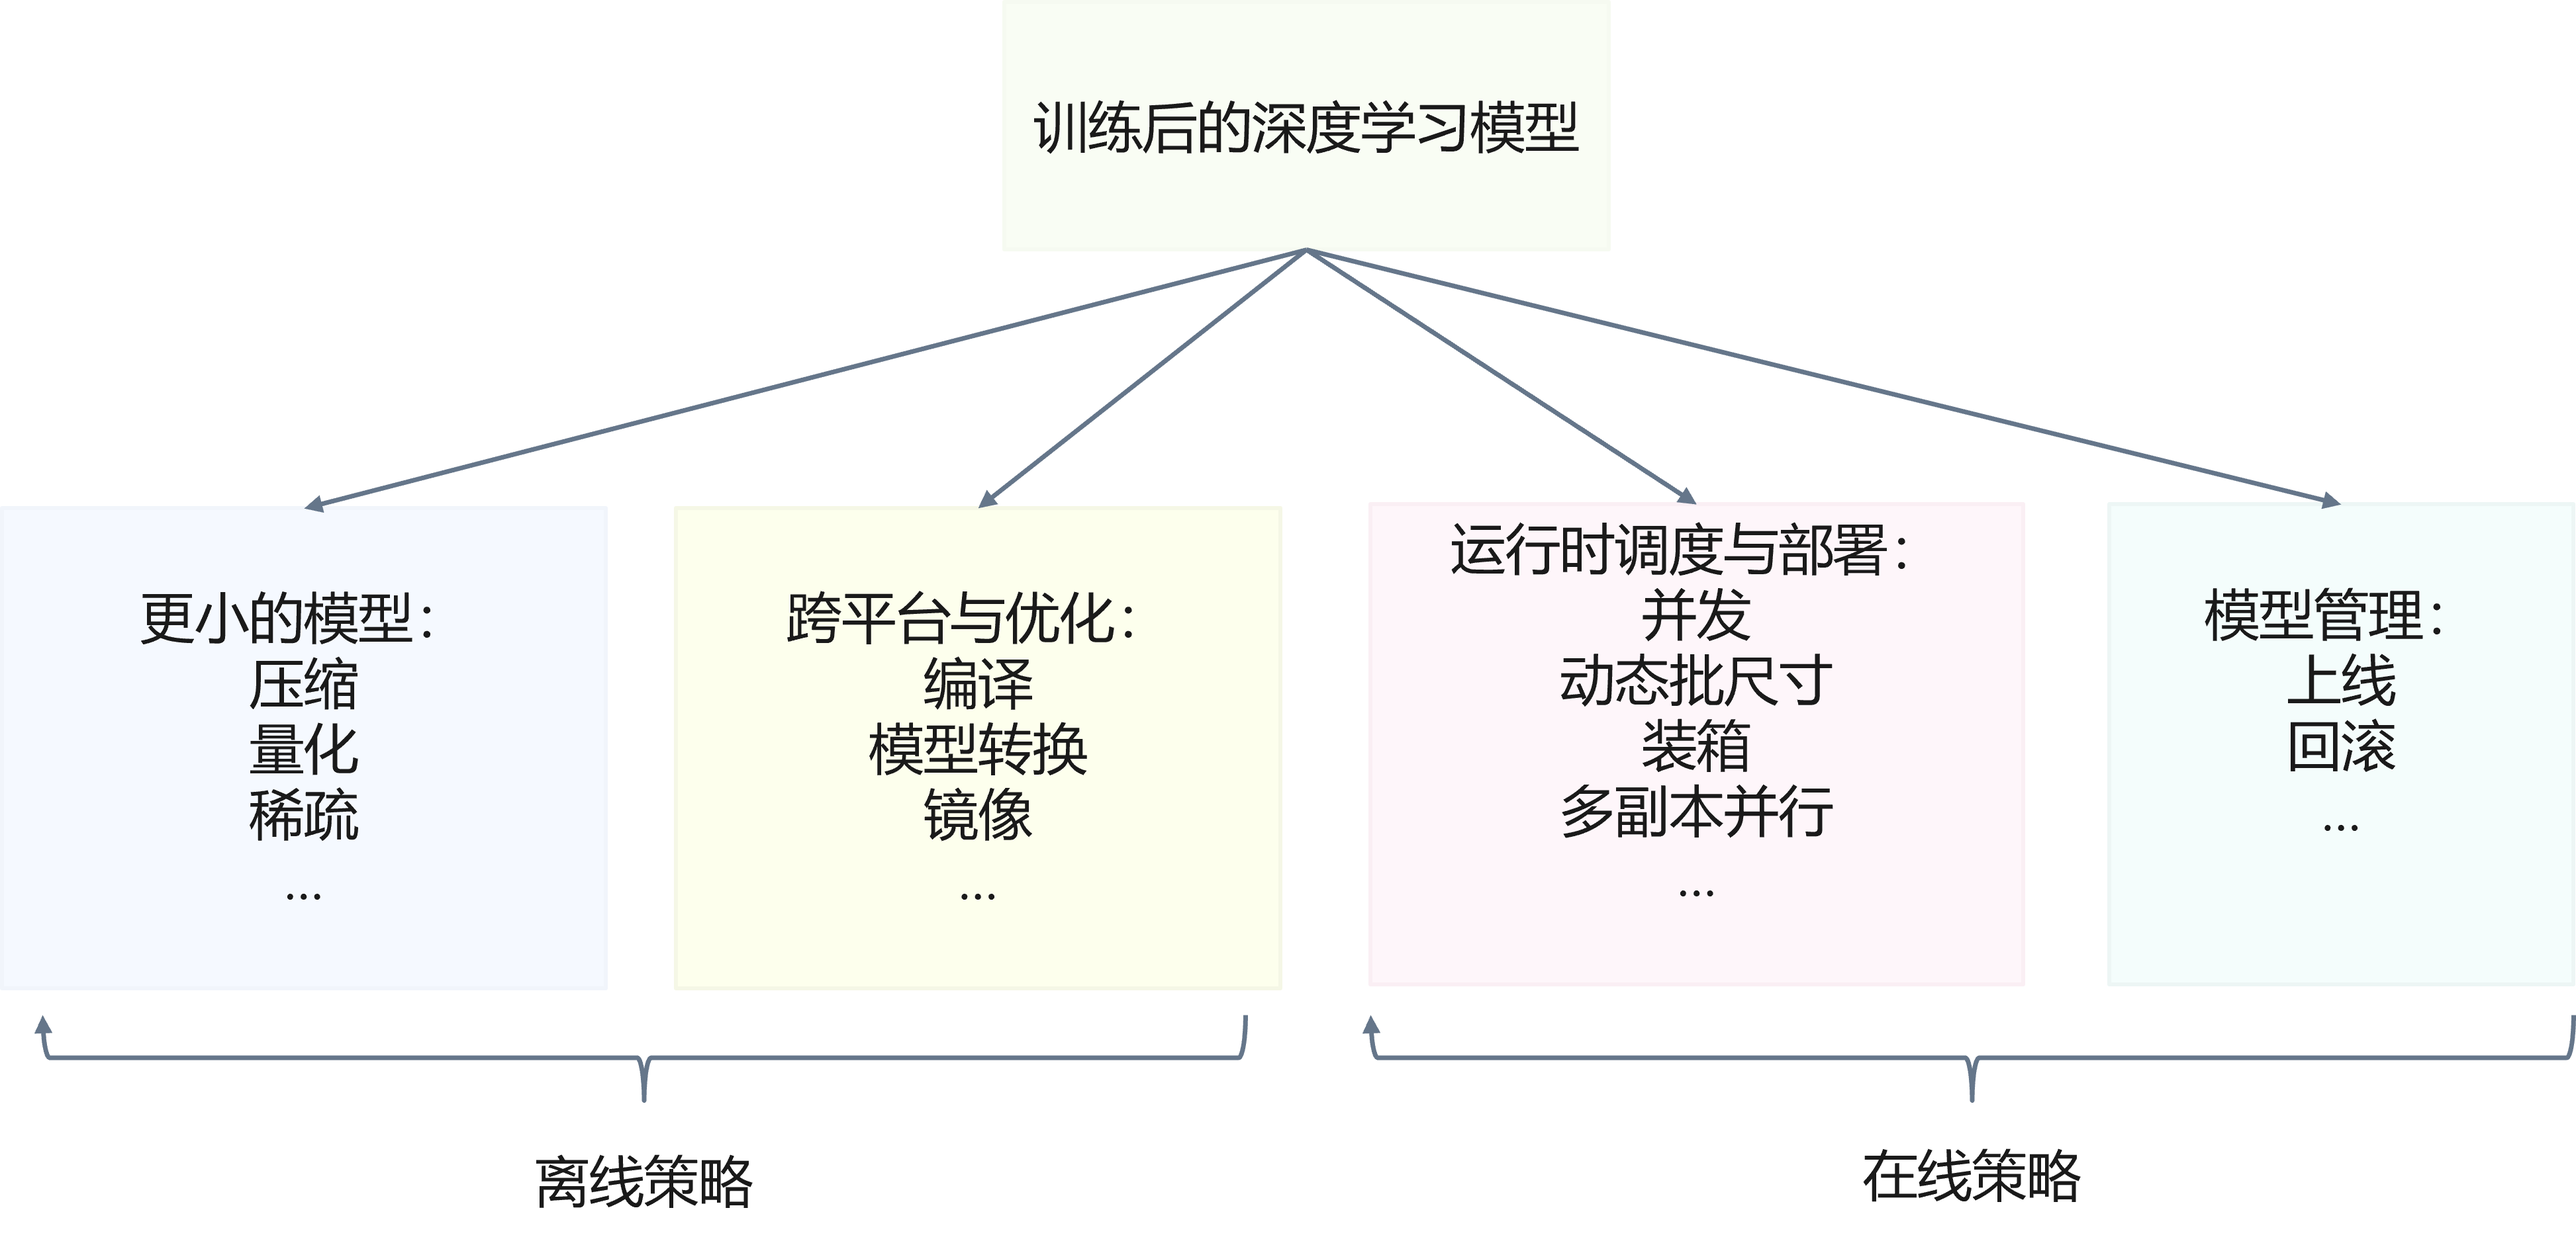
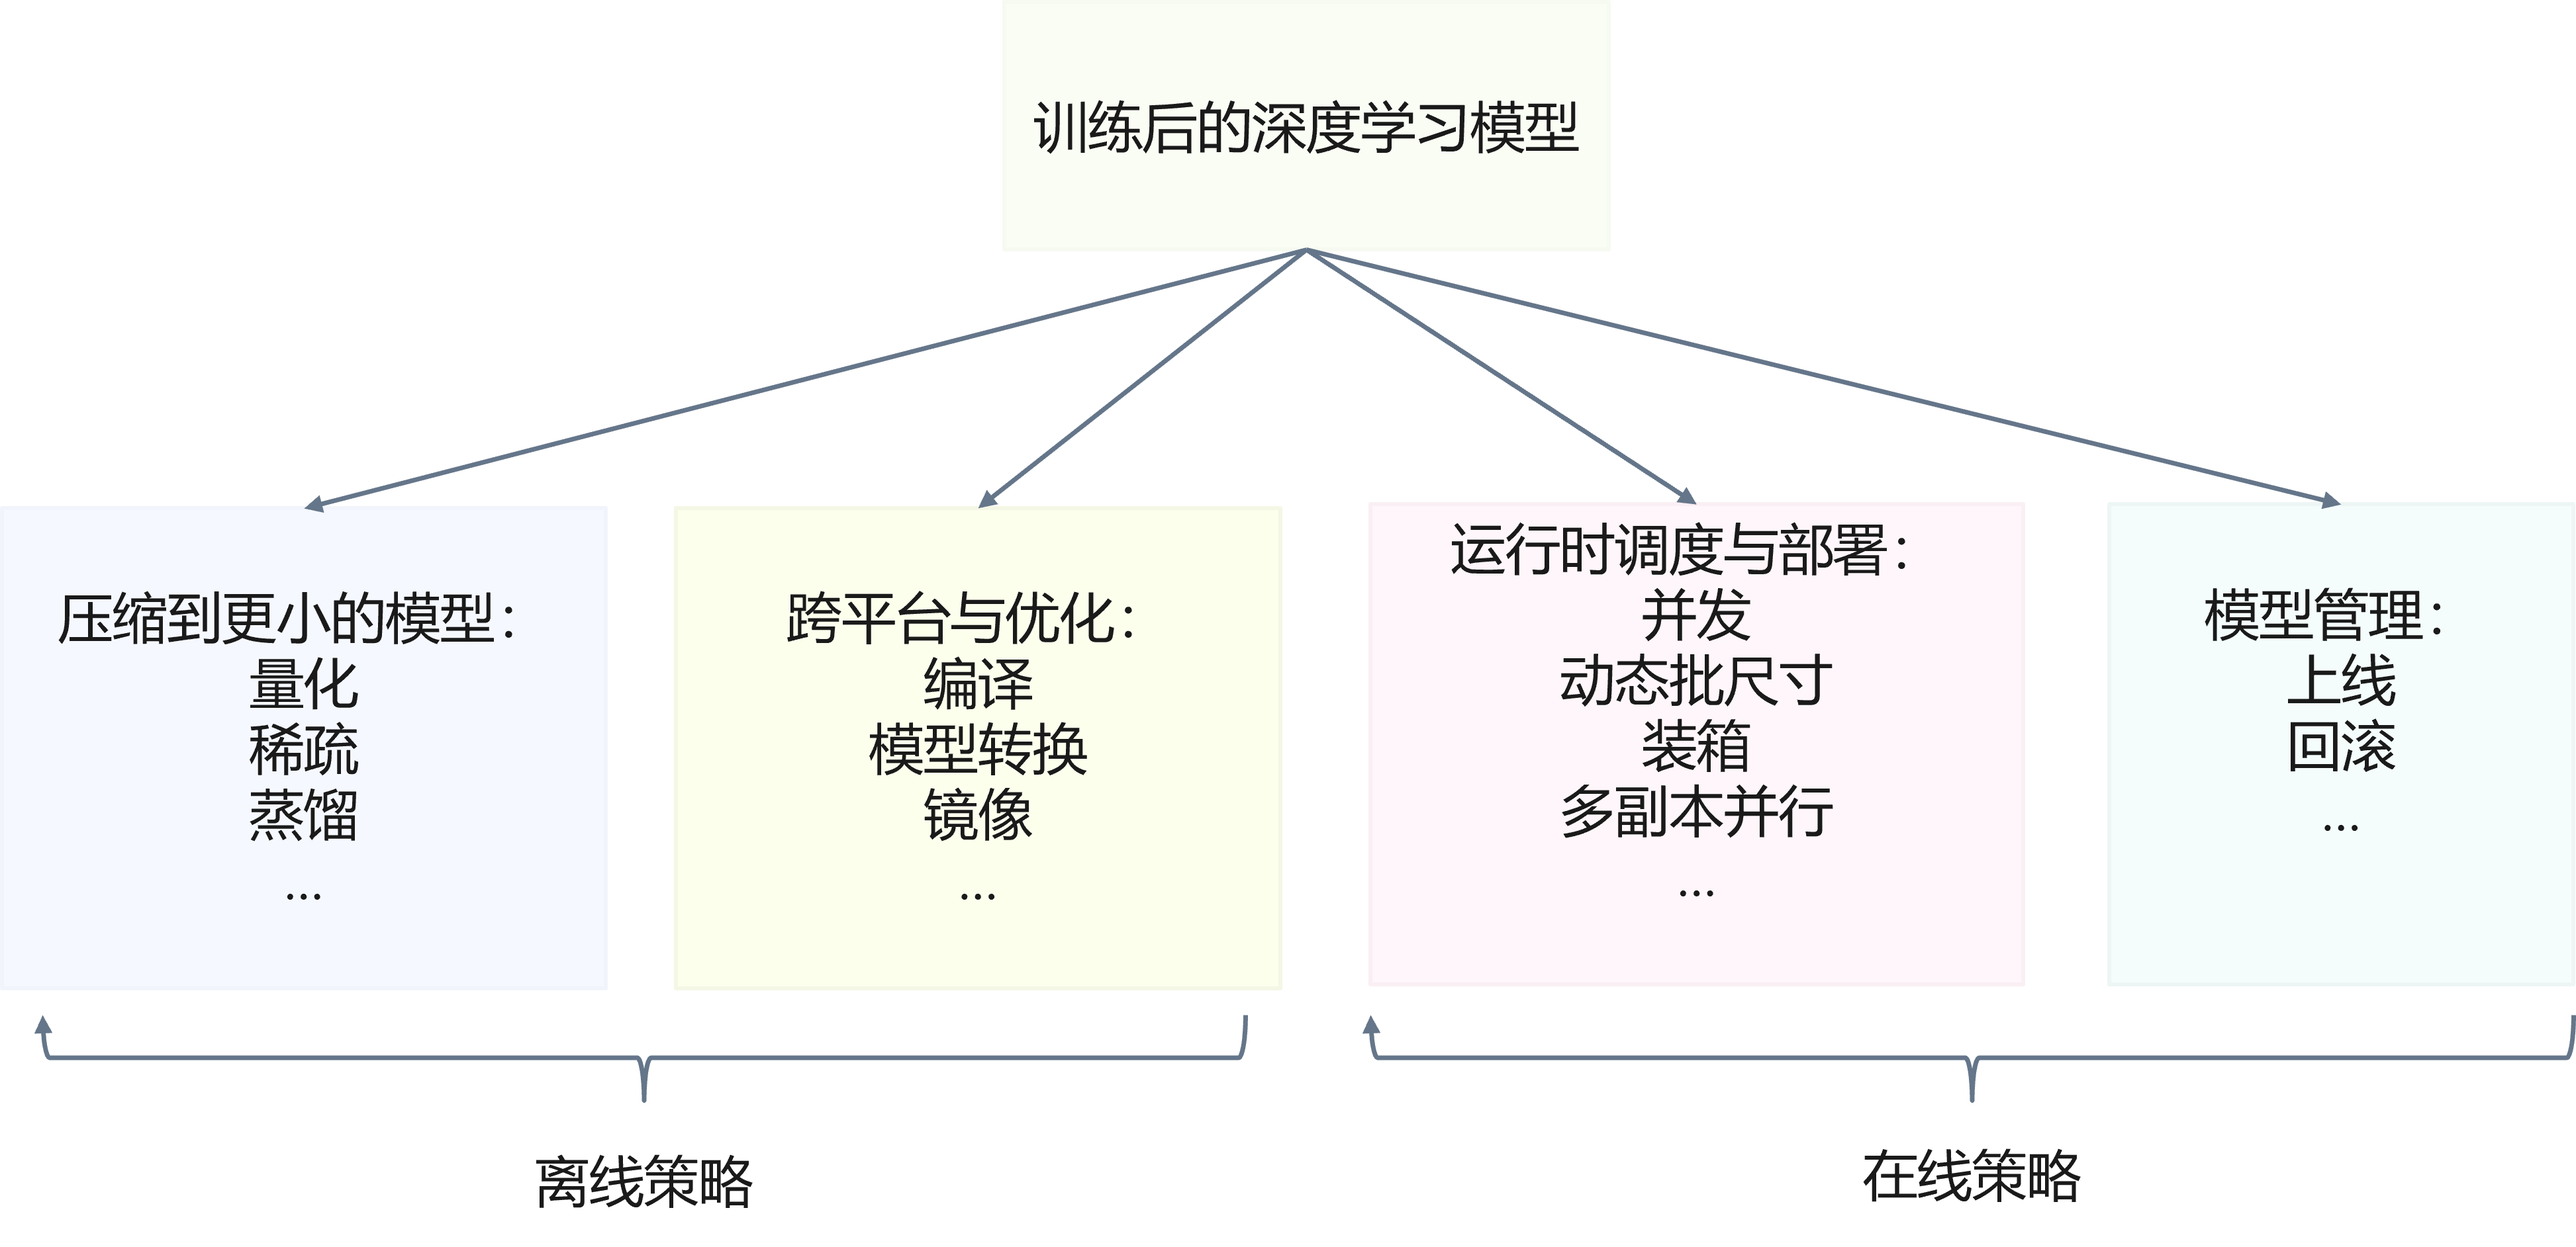
fix the compression content issue (#196)
* fix the compression content issue

* refine a bit

Changed region(s): [[0.0311, 0.4615, 0.1866, 0.6769]]

diff --git a/Textbook/第8章-深度学习推理系统/8.2-模型推理的离线优化.md b/Textbook/第8章-深度学习推理系统/8.2-模型推理的离线优化.md
@@ -13,8 +13,8 @@
   - [8.2.2 推理（Inference）延迟（Latency）](#822-推理inference延迟latency)
   - [8.2.3 层（Layer）间与张量（Tensor）融合](#823-层layer间与张量tensor融合)
   - [8.2.4 目标后端自动调优](#824-目标后端自动调优)
-  - [8.2.5 低精度推理与精度校准](#825-低精度推理与精度校准)
-  - [8.2.6 模型压缩](#826-模型压缩)
+  - [8.2.5 模型压缩](#825-模型压缩)
+  - [8.2.6 低精度推理](#826-低精度推理)
   - [小结与讨论](#小结与讨论)
   - [参考文献](#参考文献)
 
@@ -226,7 +226,73 @@ for (i = 0; i < n; i += k) {
 
 程序分析（Program Analysis）与编译器（Compiler）领域在过去的几十年中，对循环做了大量的研究与优化，读者可以参考[循环优化（Loop Optimization）](https://en.wikipedia.org/wiki/Loop_optimization)了解。例如：循环分块（Tiling），循环展开（Unrolling），循环交换（Interchange），循环分解（Fission），循环融合（Fusion）等。而面对如此大的优化空间，当前的工作更多的入手点并不是再找到新的优化点，而是从如何通盘考虑已有循环优化机会，通过更高效或新的算法搜索出近似或超过专家手工优化的效果，以及通过编译器工程上适配更多的设备。
 
-## 8.2.5 低精度推理与精度校准
+## 8.2.5 模型压缩
+
+模型压缩（Model Compression）是通过一定的算法和策略，在保证模型预测效果满足一定要求的前提下，尽可能地降低模型权重的大小，进而降低模型的推理计算量，内存开销和模型文件的空间占用，最终降低模型推理延迟。因为其可观的收益和一定的预测效果保证，在模型部署和推理之前，通过模型压缩进行模型精简是常常使用的技术。
+
+我们可以将模型压缩抽象为有约束的优化问题：
+
+优化目标：在所选择的策略下，最小化模型大小
+
+$$min_{policy_{i}}\{ModelSize(Policy_{i})\}$$
+
+$$policy_{i}: 模型压缩策略。例如，剪枝。$$
+$$ModelSize: 模型尺寸。例如，100MB。$$
+
+
+约束：在所选择的策略进行模型压缩后，保证预测精度满足约束
+
+$$Accuracy(Policy_{i}) \geq AccuracySLA$$
+
+$$AccuracySLA: 准确度服务等级协议。例如，accuracy > 97\% 。$$
+
+
+常常使用的模型压缩技术有如下几种：
+
+- 参数裁剪（Parameter Pruning）和共享（Sharing）
+  - 剪枝（Pruning）
+  - 量化（Quantization）
+  - 编码（Encoding）
+- 低秩分解（Low-Rank Factorization）
+- 知识精炼（Knowledge Distillation）
+- …
+
+例如，在 [Deep Compression ICLR '16](https://arxiv.org/abs/1510.00149)[<sup>[8]</sup>](#compression) 的工作中，将模型压缩抽象为以下几个步骤。
+
+1. 剪枝阶段：此阶段可以减少权重近 $10 \times$，此阶段从 1989 年 [Optimal Brain Damage NIPS 1989](https://proceedings.neurips.cc/paper/1989/file/6c9882bbac1c7093bd25041881277658-Paper.pdf) 即开始通过减少模型网络复杂度的方式进行剪枝。此工作也是基于原有工作之上构建。此步骤需要再微调训练以还原预测精度。
+如图所示剪枝后网络中的边也就是权重减少。
+<center> <img src="./img/2/8-2-5-compression.png"  /></center>
+<center>图 8.2.5 模型剪枝前后对比</center>
+
+2. 量化阶段：此阶段可提升压缩 $27 \times - 31 \times$，网络量化和权重共享进一步压缩减少网络权重比特。读者可以参考 8.2.5 理解量化机制，此工作中会对权重进行聚类，生成并利用统计出的代码书（Code Book）进一步量化权重。权重共享策略，读者可以参考 [HashNet CVPR '17](https://openaccess.thecvf.com/content_ICCV_2017/papers/Cao_HashNet_Deep_Learning_ICCV_2017_paper.pdf) 理解，对输入数据通过一个哈希函数决定选择哪些权重。此步骤需要再微调训练以还原预测精度。
+   
+3. 霍夫曼编码（Huffman Encoding）阶段：此阶段可提升压缩 $35 \times ~ 49 \times$：霍夫曼编码是一种优化的前缀编码，通常用于数据压缩，在 Van Leeuwen, Jan 1979 年工作中有介绍。此工作根据霍夫曼编码进行量化后的权重进一步进行编码减少空间占用。 
+
+综上我们可以看到，模型压缩综合使用传统的模型剪枝，量化，数据压缩与编码算法，并不断结合重新训练调整精度，最终达到极致的压缩效果。
+
+由于目前有很多手段可以达到模型压缩与量化，那么我们也可以考虑通过集成性工具一站式做好模型压缩（例如，Level，AGP，L1Filter，L2Filter，Slim 等剪枝器）与量化（例如，Naive，QAT，BNN等量化器）。例如，通过 NNI 提供的模型压缩与量化接口实例，我们可以自动化使用多种算法进行尝试和剪枝。下面使用一个简单的 [NNI 官方示例](https://nni.readthedocs.io/en/v1.6/Compressor/Overview.html)[<sup>[9]</sup>](#nni) 来展示如何修改试用代码以应用压缩算法。假设想使用 Level Pruner 将所有权重修剪为 80% 的稀疏度，可以在训练模型之前将以下三行添加到代码中（这里是[完整的代码](https://github.com/microsoft/nni/tree/master/examples/model_compress)）。函数调用 pruner.compress() 修改用户定义的模型（在 Tensorflow 中，模型可以通过 tf.get_default_graph() 获得，而在 PyTorch 中，模型是定义的模型类），并通过插入遮罩（Masks）修改模型。然后当用户运行模型时，遮罩就会生效。也可以通过算法在运行时调整遮罩。这样当我们面对种类繁多的算法时，可以在框架内一站式解决压缩与量化问题。
+
+通过 NNI 进行 PyTorch 模型压缩实例
+```python
+from nni.compression.torch import LevelPruner
+config_list = [{ 'sparsity': 0.8, 'op_types': ['default'] }]
+pruner = LevelPruner(model, config_list)
+pruner.compress()
+Tensorflow code
+```
+TensorFlow 实例
+```python
+from nni.compression.tensorflow import LevelPruner
+config_list = [{ 'sparsity': 0.8, 'op_types': ['default'] }]
+pruner = LevelPruner(tf.get_default_graph(), config_list)
+pruner.compress()
+```
+
+在后面章节中我们将有更为细节的模型压缩内容叙述，本小节只介绍与推理相关的模型压缩技术和问题。
+
+## 8.2.6 低精度推理
+
+作为模型压缩的一种手段，低精度推理也常常用于推理系统中用于模型精简与推理加速。
 
 推理阶段相比训练阶段可以适当降低精度[<sup>[10]</sup>](#8bit)，进而降低推理延迟:
 - 大多数深度学习框架都以完整的 32 位精度（FP32）训练神经网络。
@@ -303,70 +369,6 @@ torch.HalfTensor
 ```
 
 读者思考，torch.float32 到 torch.float16 转换后，对 Tensor(4, 5) 计算量和内存优化了多少倍？ 
-
-## 8.2.6 模型压缩
-
-模型压缩（Model Compression）是通过一定的算法和策略，在保证模型预测效果满足一定要求的前提下，尽可能地降低模型权重的大小，进而降低模型的推理计算量，内存开销和模型文件的空间占用，最终降低模型推理延迟。因为其可观的收益和一定的预测效果保证，在模型部署和推理之前，通过模型压缩进行模型精简是常常使用的技术。
-
-我们可以将模型压缩抽象为有约束的优化问题：
-
-优化目标：在所选择的策略下，最小化模型大小
-
-$$min_{policy_{i}}\{ModelSize(Policy_{i})\}$$
-
-$$policy_{i}: 模型压缩策略。例如，剪枝。$$
-$$ModelSize: 模型尺寸。例如，100MB。$$
-
-
-约束：在所选择的策略进行模型压缩后，保证预测精度满足约束
-
-$$Accuracy(Policy_{i}) \geq AccuracySLA$$
-
-$$AccuracySLA: 准确度服务等级协议。例如，accuracy > 97\% 。$$
-
-
-常常使用的模型压缩技术有如下几种：
-
-- 参数裁剪（Parameter Pruning）和共享（Sharing）
-  - 剪枝（Pruning）
-  - 量化（Quantization）
-  - 编码（Encoding）
-- 低秩分解（Low-Rank Factorization）
-- 知识精炼（Knowledge Distillation）
-- …
-
-例如，在 [Deep Compression ICLR '16](https://arxiv.org/abs/1510.00149)[<sup>[8]</sup>](#compression) 的工作中，将模型压缩抽象为以下几个步骤。
-
-1. 剪枝阶段：此阶段可以减少权重近 $10 \times$，此阶段从 1989 年 [Optimal Brain Damage NIPS 1989](https://proceedings.neurips.cc/paper/1989/file/6c9882bbac1c7093bd25041881277658-Paper.pdf) 即开始通过减少模型网络复杂度的方式进行剪枝。此工作也是基于原有工作之上构建。此步骤需要再微调训练以还原预测精度。
-如图所示剪枝后网络中的边也就是权重减少。
-<center> <img src="./img/2/8-2-5-compression.png"  /></center>
-<center>图 8.2.5 模型剪枝前后对比</center>
-
-2. 量化阶段：此阶段可提升压缩 $27 \times - 31 \times$，网络量化和权重共享进一步压缩减少网络权重比特。读者可以参考 8.2.5 理解量化机制，此工作中会对权重进行聚类，生成并利用统计出的代码书（Code Book）进一步量化权重。权重共享策略，读者可以参考 [HashNet CVPR '17](https://openaccess.thecvf.com/content_ICCV_2017/papers/Cao_HashNet_Deep_Learning_ICCV_2017_paper.pdf) 理解，对输入数据通过一个哈希函数决定选择哪些权重。此步骤需要再微调训练以还原预测精度。
-   
-3. 霍夫曼编码（Huffman Encoding）阶段：此阶段可提升压缩 $35 \times ~ 49 \times$：霍夫曼编码是一种优化的前缀编码，通常用于数据压缩，在 Van Leeuwen, Jan 1979 年工作中有介绍。此工作根据霍夫曼编码进行量化后的权重进一步进行编码减少空间占用。 
-
-综上我们可以看到，模型压缩综合使用传统的模型剪枝，量化，数据压缩与编码算法，并不断结合重新训练调整精度，最终达到极致的压缩效果。
-
-由于目前有很多手段可以达到模型压缩与量化，那么我们也可以考虑通过集成性工具一站式做好模型压缩（例如，Level，AGP，L1Filter，L2Filter，Slim 等剪枝器）与量化（例如，Naive，QAT，BNN等量化器）。例如，通过 NNI 提供的模型压缩与量化接口实例，我们可以自动化使用多种算法进行尝试和剪枝。下面使用一个简单的 [NNI 官方示例](https://nni.readthedocs.io/en/v1.6/Compressor/Overview.html)[<sup>[9]</sup>](#nni) 来展示如何修改试用代码以应用压缩算法。假设想使用 Level Pruner 将所有权重修剪为 80% 的稀疏度，可以在训练模型之前将以下三行添加到代码中（这里是[完整的代码](https://github.com/microsoft/nni/tree/master/examples/model_compress)）。函数调用 pruner.compress() 修改用户定义的模型（在 Tensorflow 中，模型可以通过 tf.get_default_graph() 获得，而在 PyTorch 中，模型是定义的模型类），并通过插入遮罩（Masks）修改模型。然后当用户运行模型时，遮罩就会生效。也可以通过算法在运行时调整遮罩。这样当我们面对种类繁多的算法时，可以在框架内一站式解决压缩与量化问题。
-
-通过 NNI 进行 PyTorch 模型压缩实例
-```python
-from nni.compression.torch import LevelPruner
-config_list = [{ 'sparsity': 0.8, 'op_types': ['default'] }]
-pruner = LevelPruner(model, config_list)
-pruner.compress()
-Tensorflow code
-```
-TensorFlow 实例
-```python
-from nni.compression.tensorflow import LevelPruner
-config_list = [{ 'sparsity': 0.8, 'op_types': ['default'] }]
-pruner = LevelPruner(tf.get_default_graph(), config_list)
-pruner.compress()
-```
-
-在后面章节中我们将有更为细节的模型压缩内容叙述，本小节只介绍与推理相关的模型压缩技术和问题。
 
 
 ## 小结与讨论

diff --git a/Textbook/README.md b/Textbook/README.md
@@ -282,8 +282,8 @@
     - 8.2.2 推理延迟
     - 8.2.3 层间与张量融合
     - 8.2.4 目标后端自动调优
-    - 8.2.5 低精度推理与精度校准
-    - 8.2.6 模型压缩
+    - 8.2.5 模型压缩
+    - 8.2.6 低精度推理
   - [8.3 部署](第8章-深度学习推理系统/8.3-部署.md)
     - 8.3.1 可靠性和可扩展性
     - 8.3.2	部署灵活性
